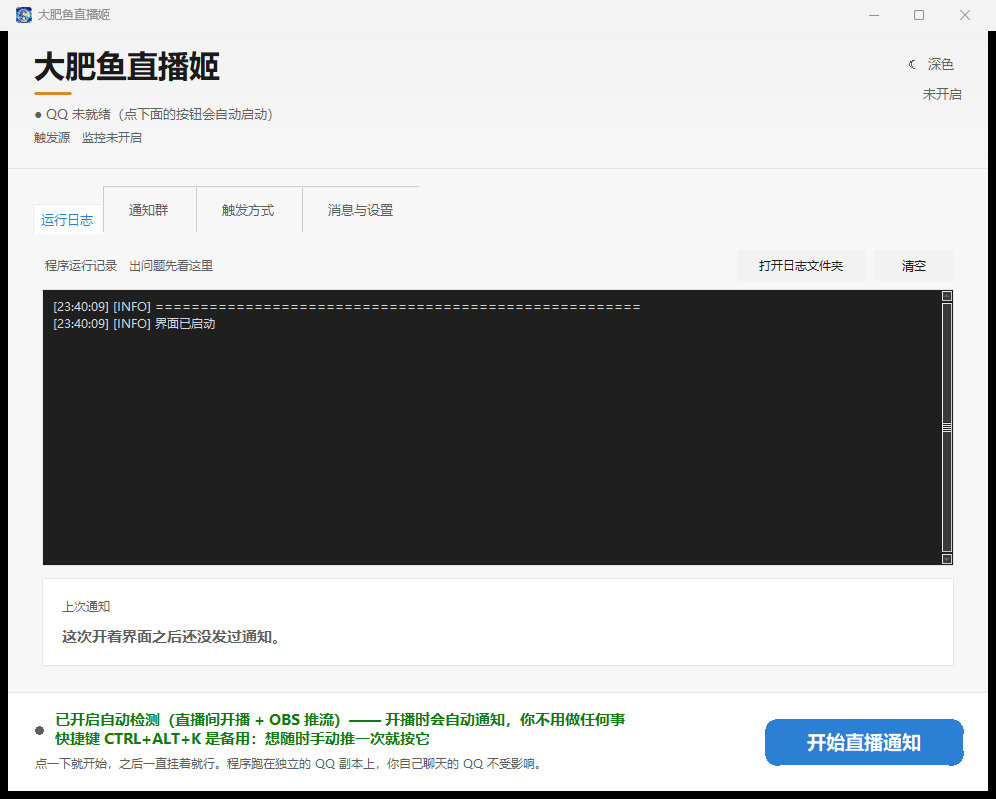
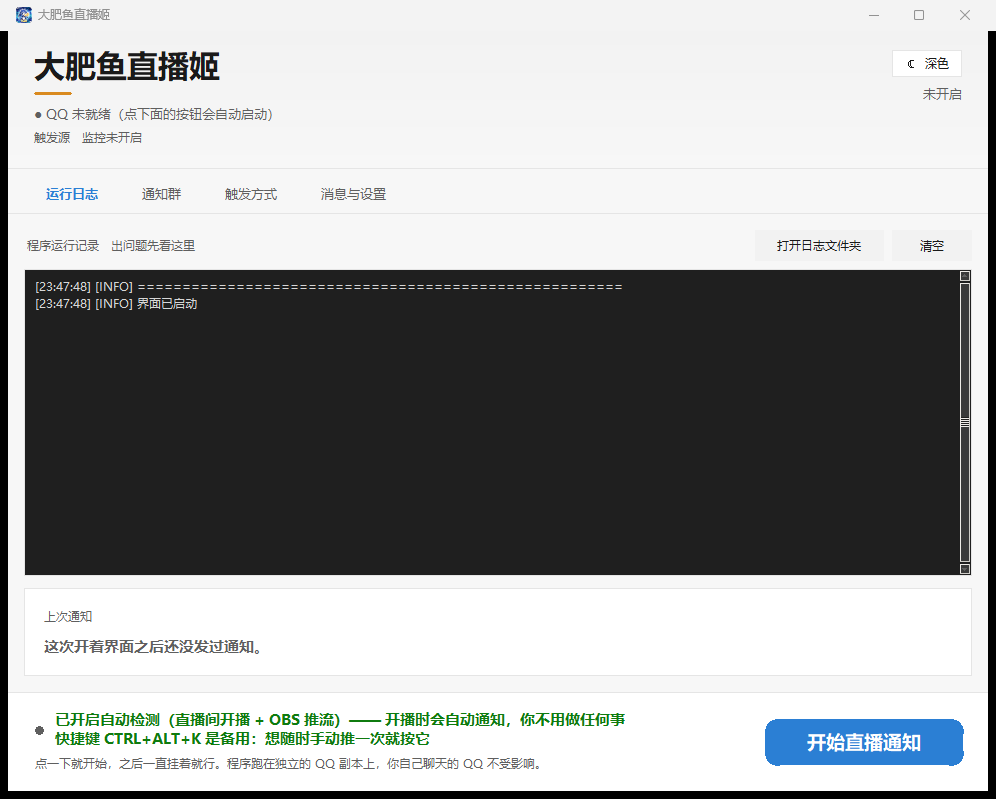
fix: 1.4.1 —— 标签栏自绘、主题开关做成按钮、表单标签对齐
三处「看着别扭」的地方。

## 标签栏换成自绘的

原来是 ttk.Notebook 自带的标签页，而 clam 主题的 tab 自带竖向分隔线和一圈
虚线焦点框 —— 那是画在 tab 元素本身上的，把 bordercolor / lightcolor /
darkcolor 全设成背景色也去不掉，只改颜色没用（上一版就卡在这）。

现在自己画：一行 Label + 一条会滑过去的指示条。顺手多了一个动效。

## 主题开关做成按钮，顺带修了对齐

之前它是没有边框的一行字，而 Label 的 padx 会把文字往里推，于是「浅色」
比下一行的「未开启」缩进了 8px —— 就是「文字没对齐」那个问题。

加了边框之后，按钮的右边缘跟「未开启」的右边缘对齐；同时也一眼看得出这是
个能点的按钮，而不是一行说明文字。

## 表单标签没垂直居中

row_label 用了 sticky="nw"（顶对齐），「标题」两个字贴着输入框上沿，而输入框
比它高，看着就是没对齐。改成 "w"（垂直居中）。多行输入框例外，那种标签按
惯例应该顶对齐，留了开关。

顺带：间距统一到 12px（Fluent 的档位是 4/8/12/16/20/24）；卡片标题从主色
改成正文色 —— Windows 11 设置里的分组标题就是加粗深色，彩色标题会让每个
卡片都在喊「看我」。

## 测试

补了 12 项动效行为测试。截图只能证明「没报错」，证明不了「真的在动」，
所以这些断言的是颜色停在中间值、状态点采到十几种不同颜色、指示条 x 坐标
真的变了（x0=0 -> x1=96）。

diff --git a/gui.py b/gui.py
@@ -267,17 +267,19 @@ STATE_RUNNING = "running"
 # --------------------------------------------------------------------------
 
 def make_card(parent, title=None, padx=16, pady=16):
-    """白底卡片：外面套一圈 1px 细边。返回 (外层容器, 内层内容区)。"""
+    """卡片：外面套一圈 1px 细边。返回 (外层容器, 内层内容区)。"""
     outer = tk.Frame(parent, background=BORDER)
     inner = tk.Frame(outer, background=CARD, padx=padx, pady=pady)
     inner.pack(fill="both", expand=True, padx=1, pady=1)
     if title:
-        tk.Label(inner, text=title, background=CARD, foreground=PRIMARY,
-                 font=(FONT, 10, "bold")).pack(anchor="w", pady=(0, 9))
+        # 标题用正文色而不是主色：Windows 11 设置里的分组标题就是加粗深色，
+        # 不是彩色的。彩色标题会让每个卡片都在喊"看我"。
+        tk.Label(inner, text=title, background=CARD, foreground=TEXT,
+                 font=(FONT, 10, "bold")).pack(anchor="w", pady=(0, 12))
     return outer, inner
 
 
-def card_hint(parent, text, wraplength=790, indent=0, pady=(5, 0)):
+def card_hint(parent, text, wraplength=790, indent=0, pady=(6, 0)):
     """卡片里的灰色说明文字。"""
     lbl = tk.Label(parent, text=text, background=CARD, foreground=MUTED,
                    justify="left", anchor="w", wraplength=wraplength,
@@ -516,6 +518,80 @@ class RoundedButton(tk.Canvas):
 
     def dispose(self):
         """控件要没了：把没跑完的动画取消掉。"""
+        self._anim.cancel()
+
+
+class TabStrip(tk.Frame):
+    """自绘标签栏，替掉 ttk.Notebook 自带的那一条。
+
+    为什么不用 ttk.Notebook 的标签页：clam 主题的 tab 自带**竖向分隔线**和
+    一圈**虚线焦点框**，而且那是画在 tab 元素本身上的 —— 我把 bordercolor /
+    lightcolor / darkcolor 全设成背景色也去不掉，只改颜色没用。
+
+    自绘的另一个好处是能做滑块动效：选中态用一条会**滑过去**的指示条，
+    这是 Fluent 里很典型的一个小动效，Notebook 给不了。
+    """
+
+    HEIGHT = 38
+    BAR_H = 2
+
+    def __init__(self, parent, labels, command, background=BG):
+        super().__init__(parent, background=background, height=self.HEIGHT)
+        self.pack_propagate(False)
+        self.command = command
+        self._index = 0
+        self._anim = Animator(self)
+
+        # 指示条先建：tkinter 里同层控件按创建顺序叠，先建的在下面
+        self._bar = tk.Frame(self, background=PRIMARY)
+        self._bar.place(x=0, y=self.HEIGHT - self.BAR_H, width=0, height=self.BAR_H)
+
+        self._row = tk.Frame(self, background=background)
+        self._row.pack(fill="both", expand=True)
+
+        self._tabs = []
+        for i, text in enumerate(labels):
+            lbl = tk.Label(self._row, text=text, font=(FONT, 10),
+                           background=background, foreground=MUTED,
+                           padx=20, cursor="hand2")
+            lbl.pack(side="left", fill="y")
+            lbl.bind("<Button-1>", lambda e, i=i: self.command(i))
+            lbl.bind("<Enter>", lambda e, i=i: self._hover(i, True))
+            lbl.bind("<Leave>", lambda e, i=i: self._hover(i, False))
+            self._tabs.append(lbl)
+
+        self.after(30, lambda: self.set_active(0, animate=False))
+
+    def _hover(self, i, on):
+        if i == self._index:
+            return
+        self._tabs[i].config(foreground=TEXT if on else MUTED)
+
+    def set_active(self, index, animate=True):
+        if not (0 <= index < len(self._tabs)):
+            return
+        self._index = index
+        for i, lbl in enumerate(self._tabs):
+            lbl.config(foreground=PRIMARY if i == index else MUTED,
+                       font=(FONT, 10, "bold") if i == index else (FONT, 10))
+
+        target = self._tabs[index]
+        x = target.winfo_x()
+        w = target.winfo_width()
+        if w < 2:                       # 还没布局完，等一帧再来
+            self.after(30, lambda: self.set_active(index, animate=False))
+            return
+        if not animate:
+            self._bar.place_configure(x=x, width=w)
+            return
+        start = self._bar.winfo_x()
+        start_w = max(self._bar.winfo_width(), 1)
+        self._anim.run("bar", MOTION_FAST,
+                       lambda t: self._bar.place_configure(
+                           x=int(start + (x - start) * t),
+                           width=int(start_w + (w - start_w) * t)))
+
+    def dispose(self):
         self._anim.cancel()
 
 
@@ -958,21 +1034,27 @@ class App:
             26, 128, anchor="w", text="", fill=WARN, font=(FONT, 10, "bold")))
 
         # 右上角：深浅色开关。
-        # 这里用真正的 Label，而不是 Canvas 文字项 + tag_bind。文字项上的
-        # tag_bind 靠不住：rebuild_ui 之后鼠标还停在原位置时会被反复命中，
-        # 实测出现过主题**自我横跳**（一秒切一次，日志里连着一串）。真控件的
-        # 点击语义是可靠的。背景色取渐变在这个高度上的实际颜色，免得出现色块。
+        #
+        # 两点讲究：
+        #  1. 用真正的 Label 而不是 Canvas 文字项 + tag_bind —— 文字项上的
+        #     tag_bind 靠不住：rebuild_ui 之后鼠标还停在原位置时会被反复命中，
+        #     实测出现过主题自我横跳（一秒切一次）。
+        #  2. **必须有边框**。最早它是没有边框的一行字，而 Label 的 padx 会把
+        #     文字往里推，于是「浅色」比下一行的「未开启」缩进了 8px —— 看着
+        #     就是没对齐。加了边框之后，按钮的**右边缘**跟「未开启」的右边缘
+        #     对齐；同时也一眼看得出这是个能点的按钮，而不是一行说明文字。
         self.btn_theme = tk.Label(
-            self.head, text="", background=mix(SUNKEN, BG, 32.0 / 137.0),
-            foreground=MUTED, font=(FONT, 10), cursor="hand2",
-            padx=8, pady=2, bd=0, highlightthickness=0)
+            self.head, text="", background=CARD, foreground=TEXT,
+            font=(FONT, 9), cursor="hand2", padx=12, pady=4,
+            bd=0, highlightthickness=1, highlightbackground=BORDER,
+            highlightcolor=PRIMARY)
         self._theme_win = self.head.create_window(0, 32, anchor="e",
                                                   window=self.btn_theme)
         self.btn_theme.bind("<Button-1>", lambda e: self.toggle_theme())
         self.btn_theme.bind("<Enter>",
-                            lambda e: self.btn_theme.config(foreground=PRIMARY))
+                            lambda e: self.btn_theme.config(background=PRIMARY_S))
         self.btn_theme.bind("<Leave>",
-                            lambda e: self.btn_theme.config(foreground=MUTED))
+                            lambda e: self.btn_theme.config(background=CARD))
 
         # ---------------- 底部常驻操作栏 ----------------
         # 整个界面最「Apple Music」的一处：主操作不放顶部那个巨大的色块里，
@@ -1018,43 +1100,70 @@ class App:
             fill=PRIMARY, fill_active=PRIMARY_D, background=CARD)
         self.btn_main.pack(side="right", padx=(24, 0))
 
-        # ---------------- 标签页 ----------------
-        nb = ttk.Notebook(self.root)
-        nb.pack(fill="both", expand=True, padx=16, pady=(8, 8))
-        self.notebook = nb
+        # ---------------- 标签栏 + 内容区 ----------------
+        self.tabbar = TabStrip(
+            self.root, ["运行日志", "通知群", "触发方式", "消息与设置"],
+            command=self.select_tab)
+        self.tabbar.pack(fill="x", padx=16, pady=(6, 0))
+        tk.Frame(self.root, background=BORDER, height=1).pack(fill="x")
 
-        self.tab_log = tk.Frame(nb, background=BG)
-        self.tab_groups = tk.Frame(nb, background=BG)
-        self.tab_trigger = tk.Frame(nb, background=BG)
-        self.tab_message = tk.Frame(nb, background=BG)
-        nb.add(self.tab_log, text="运行日志")
-        nb.add(self.tab_groups, text="通知群")
-        nb.add(self.tab_trigger, text="触发方式")
-        nb.add(self.tab_message, text="消息与设置")
+        body = tk.Frame(self.root, background=BG)
+        body.pack(fill="both", expand=True)
+
+        self.tab_log = tk.Frame(body, background=BG)
+        self.tab_groups = tk.Frame(body, background=BG)
+        self.tab_trigger = tk.Frame(body, background=BG)
+        self.tab_message = tk.Frame(body, background=BG)
+        self._pages = [self.tab_log, self.tab_groups,
+                       self.tab_trigger, self.tab_message]
 
         self._build_log_tab()
         self._build_groups_tab()
         self._build_trigger_tab()
         self._build_message_tab()
 
-        self._tab_anim = Animator(nb)
-        nb.bind("<<NotebookTabChanged>>", self._on_tab_changed)
+        self._tab_anim = Animator(body)
+        self._tab_index = 0
+        self.select_tab(0, animate=False)
 
-    def _on_tab_changed(self, _event=None):
-        """切标签页时让内容「落到位」。
+    def select_tab(self, index, animate=True):
+        """切换标签页。
+
+        内容用 pack / pack_forget 换，不用 ttk.Notebook —— 那条标签栏在 clam
+        主题下自带分隔线和虚线焦点框，去不掉。
 
         Fluent 的进入动画是 167ms 快进慢停。tkinter 没有透明度，做不了真正的
-        淡入，所以改用位移：内容从上方一点滑下来。位移比透明度更容易被眼睛
+        淡入，所以改用位移：内容从上方一点点落到位。位移比透明度更容易被眼睛
         读到，也更好实现 —— 关键是不假装能做做不到的事。
         """
-        try:
-            page = self.notebook.nametowidget(self.notebook.select())
-            base = int(page.cget("pady")) or 16
-        except Exception:
+        if not (0 <= index < len(self._pages)):
             return
-        self._tab_anim.run(
-            "tab", MOTION_FAST,
-            lambda t: page.config(pady=base + int(round(14 * (1 - t)))))
+        changed = (index != getattr(self, "_tab_index", -1))
+        self._tab_index = index
+        for i, page in enumerate(self._pages):
+            if i == index:
+                page.pack(fill="both", expand=True)
+            else:
+                page.pack_forget()
+        if hasattr(self, "tabbar"):
+            self.tabbar.set_active(index, animate=animate)
+
+        if not (animate and changed):
+            return
+        page = self._pages[index]
+        inner = page.winfo_children()
+        inner = inner[0] if inner else None
+        if inner is None:
+            return
+        base = int(inner.cget("pady")) or 16
+
+        def frame(t):
+            try:
+                inner.config(pady=base + int(round(14 * (1 - t))))
+            except tk.TclError:
+                pass
+
+        self._tab_anim.run("tab", MOTION_FAST, frame)
 
     def _build_log_tab(self):
         page = tk.Frame(self.tab_log, background=BG, padx=16, pady=16)
@@ -1323,18 +1432,29 @@ class App:
         grid.pack(fill="x")
         grid.columnconfigure(1, weight=1)
 
-        def row_label(row, text, top=5):
+        # 标签列给个固定宽度，三行的输入框左边缘才会齐
+        grid.columnconfigure(0, minsize=80)
+
+        def row_label(row, text, top=False):
+            """表单行标签。
+
+            `sticky="w"` 而不是 `"nw"` 是关键：前者让标签在格子里**垂直居中**，
+            跟旁边那个更高的输入框对得上；后者是顶对齐，「标题」两个字贴在
+            输入框上沿，看着就是没对齐。多行输入框（开播文案）例外 —— 那种
+            标签按惯例应该顶对齐，所以留了 top 开关。
+            """
             tk.Label(grid, text=text, background=CARD, foreground=TEXT,
-                     font=(FONT, 9), anchor="w").grid(
-                row=row, column=0, sticky="nw", pady=(top, 0), padx=(0, 10))
+                     font=(FONT, 9), anchor="nw" if top else "w").grid(
+                row=row, column=0, sticky="nw" if top else "w",
+                padx=(0, 16), pady=(5, 0) if top else 0)
 
         row_label(0, "标题")
         ttk.Entry(grid, textvariable=self.var_title, font=(FONT, 9)).grid(
-            row=0, column=1, sticky="we", pady=(5, 0))
+            row=0, column=1, sticky="we", pady=(0, 12))
         row_label(1, "直播间链接")
         ttk.Entry(grid, textvariable=self.var_link, font=(FONT, 9)).grid(
-            row=1, column=1, sticky="we", pady=(8, 0))
-        row_label(2, "开播文案")
+            row=1, column=1, sticky="we", pady=(0, 12))
+        row_label(2, "开播文案", top=True)
         self.txt_tpl = tk.Text(grid, height=6, wrap="word", font=(FONT, 9),
                                background=SUNKEN, foreground=TEXT,
                                relief="flat", bd=0,
@@ -1342,15 +1462,15 @@ class App:
                                highlightbackground=BORDER,
                                highlightcolor=PRIMARY,
                                insertbackground=TEXT,
-                               padx=6, pady=4)
-        self.txt_tpl.grid(row=2, column=1, sticky="we", pady=(8, 0))
+                               padx=8, pady=6)
+        self.txt_tpl.grid(row=2, column=1, sticky="we")
         tk.Label(grid, text="可用占位符：{title} {link} {game} {time} {date}",
                  background=CARD, foreground=MUTED, font=(FONT, 8),
-                 anchor="w").grid(row=3, column=1, sticky="w", pady=(3, 0))
+                 anchor="w").grid(row=3, column=1, sticky="w", pady=(8, 0))
         tk.Label(grid, text="想写多套就分几段，中间用单独一行 --- 隔开 —— "
                             "每次开播随机挑一套，免得每次都一模一样",
                  background=CARD, foreground=MUTED, font=(FONT, 8),
-                 anchor="w").grid(row=4, column=1, sticky="w", pady=(1, 0))
+                 anchor="w").grid(row=4, column=1, sticky="w", pady=(2, 0))
 
         self.var_cover = tk.BooleanVar()
         self.var_cover_size = tk.StringVar()

diff --git a/live_notify.py b/live_notify.py
@@ -50,7 +50,7 @@ except ImportError:                # 缺文件时通知里就不带游戏名
 
 APP_NAME = "dafeiyu-live-notify"        # 技术标识：控制端口、日志、JSON 字段用
 DISPLAY_NAME = "大肥鱼直播姬"             # 界面与文档里显示的名字
-VERSION = "1.4.0"
+VERSION = "1.4.1"
 
 def _resolve_base_dir():
     """确定**数据目录**（config.json / logs / napcat 所在处）。

diff --git a/CHANGELOG.md b/CHANGELOG.md
@@ -4,6 +4,45 @@
 
 ---
 
+## 1.4.1
+
+修三处「看着别扭」的地方。
+
+### 标签栏换成自绘的
+
+原来是 ttk.Notebook 自带的标签页，而 clam 主题的 tab **自带竖向分隔线和一圈
+虚线焦点框** —— 那是画在 tab 元素本身上的，把 bordercolor / lightcolor /
+darkcolor 全设成背景色也去不掉，只改颜色没用。
+
+现在自己画：一行 Label + 一条会**滑过去**的指示条。顺手多了一个动效 ——
+选中态滑过去是 Fluent 里很典型的一笔。
+
+### 主题开关做成按钮，顺带修了对齐
+
+之前它是**没有边框的一行字**，而 Label 的 `padx` 会把文字往里推，于是「浅色」
+比下一行的「未开启」缩进了 8px —— 就是「文字没对齐」。
+
+加了边框之后，按钮的**右边缘**跟「未开启」的右边缘对齐；同时也一眼看得出
+这是个能点的按钮，而不是一行说明文字。
+
+### 表单标签没垂直居中
+
+`row_label` 用了 `sticky="nw"`（顶对齐），「标题」两个字贴着输入框上沿，
+而输入框比它高 —— 看着就是没对齐。改成 `"w"`（垂直居中）。
+多行输入框（开播文案）例外，那种标签按惯例应该顶对齐，留了开关。
+
+顺带把间距统一到 12px（Fluent 的间距档位是 4/8/12/16/20/24），
+卡片标题从主色改成正文色 —— Windows 11 设置里的分组标题就是加粗深色，
+彩色标题会让每个卡片都在喊「看我」。
+
+### 测试
+
+补了 12 项**动效行为**测试。截图只能证明"没报错"，证明不了"真的在动"，
+所以这些断言的是颜色停在中间值、状态点采到十几种不同颜色、指示条 x 坐标
+真的变了。
+
+---
+
 ## 1.4.0
 
 配色换成 Fluent 骨架 + 降对比，并给界面加上动效。
